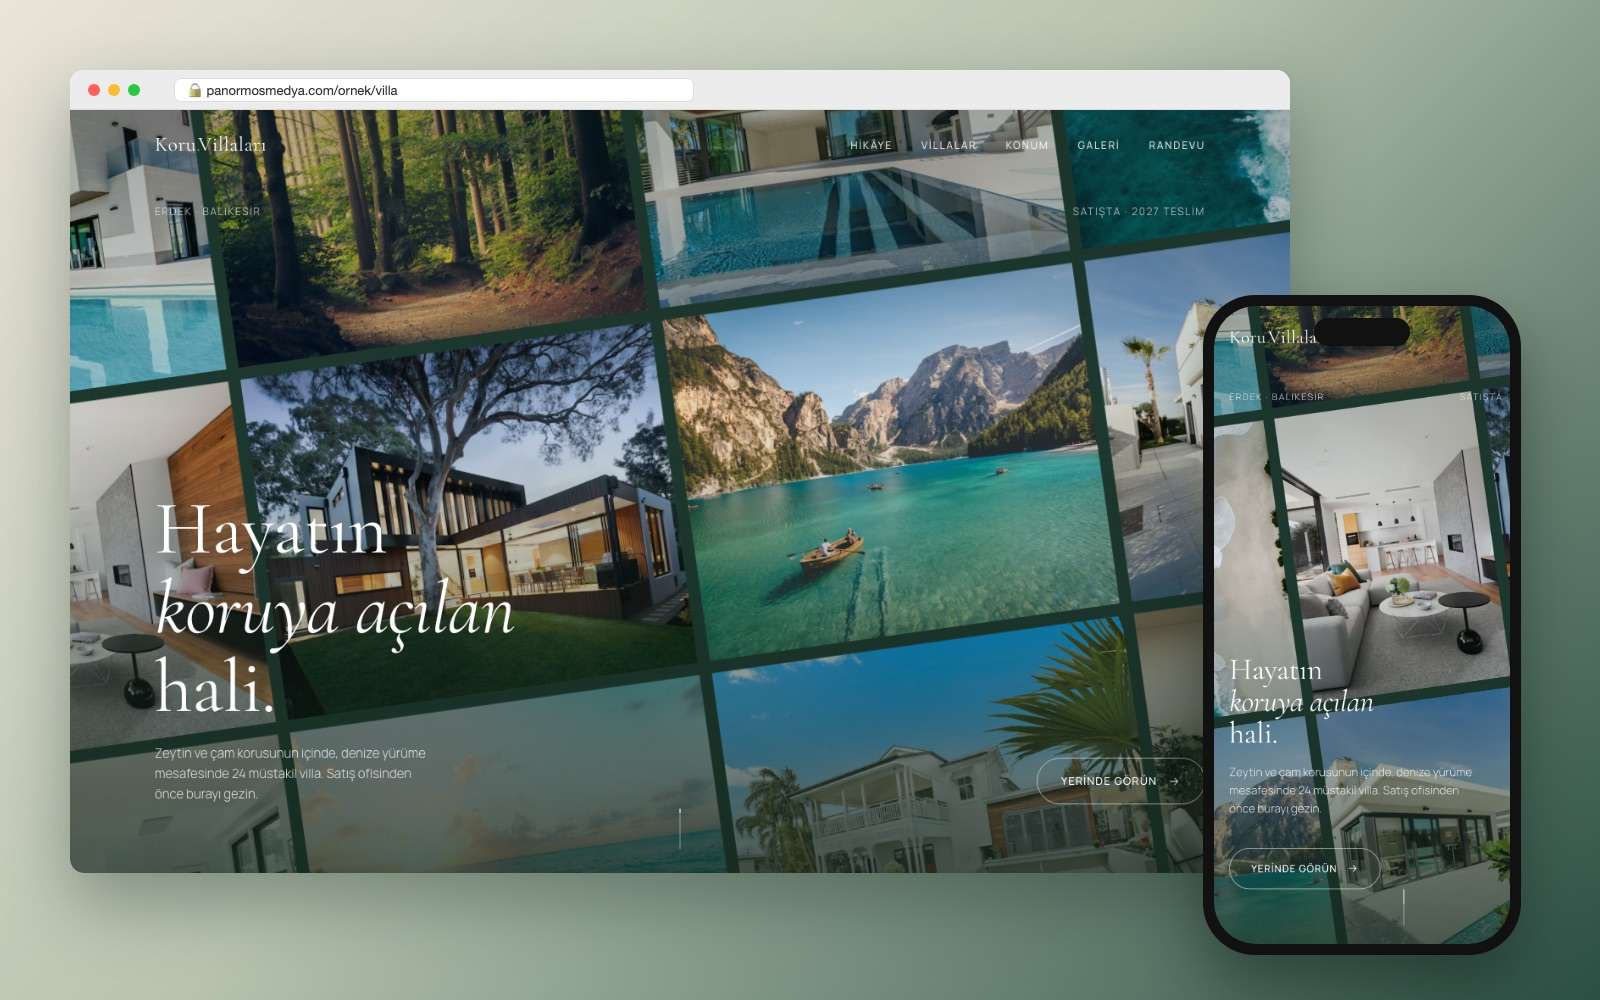
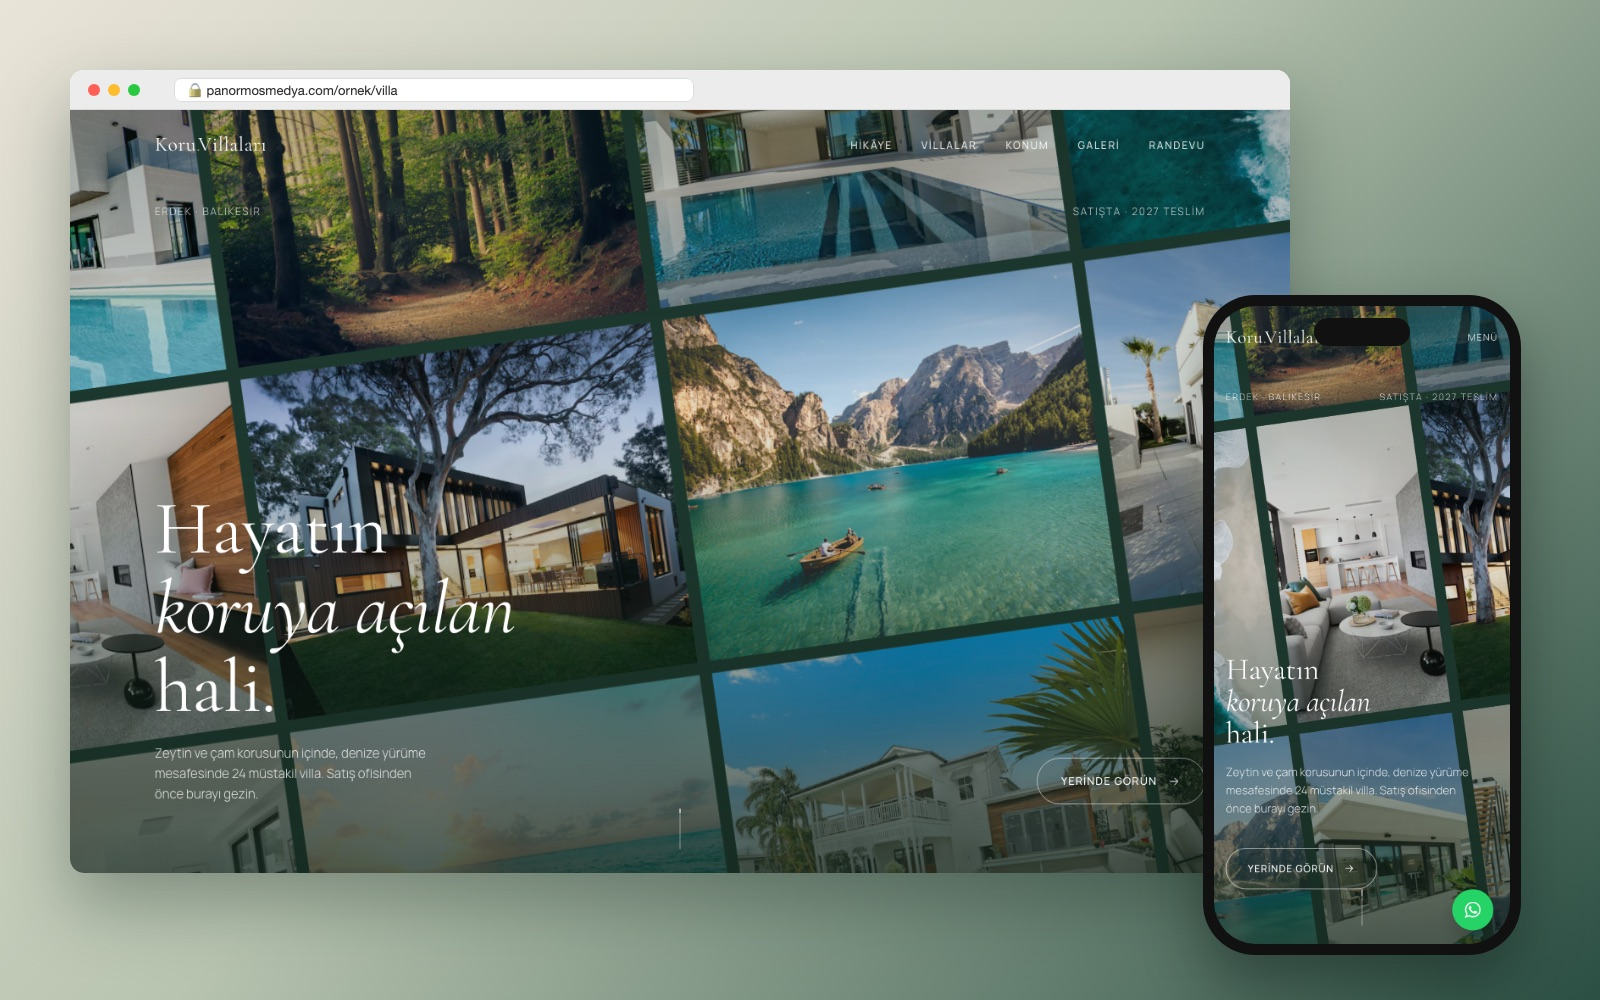
İşlerimiz: Veteriner Market örnek mağaza eklendi; veteriner sitesinde telefonda hayvan görselleri düğmenin üstüne binmiyor

Changed region(s): [[0.75, 0.279, 0.9688, 0.961]]

diff --git a/panormos-v2/src/Site.jsx b/panormos-v2/src/Site.jsx
@@ -33,9 +33,14 @@ const ISLER = [
     maddeler: ["Otomatik kira artış oranı", "Bankaların güncel kredi oranları", "Canlı altın ve döviz", "Panelden yönetilen blog"],
   },
   {
-    renk: "mavi", etiket: "İnşaat projesine özel site", baslik: "Koru Villaları", adres: "https://panormosmedya.com/ornek/villa/", adresYazi: "Örnek siteyi aç", gorsel: "/isler/villa.jpg?v=1",
+    renk: "mavi", etiket: "İnşaat projesine özel site", baslik: "Koru Villaları", adres: "https://panormosmedya.com/ornek/villa/", adresYazi: "Örnek siteyi aç", gorsel: "/isler/villa.jpg?v=2",
     metin: "Erdek'te müstakil villa projesi satan bir inşaat firması için hazırladığımız tanıtım sitesi. Alıcı satış ofisine gelmeden projeyi geziyor: korunun içindeki konum, villa tipleri, galeri ve randevu tek sayfada.",
     maddeler: ["4+1 ve 5+1 villa tipleri, metrekareleriyle", "Konum ve denize yürüme mesafesi", "Fotoğraf ve render galerisi", "Randevu formu ve WhatsApp düğmesi"],
+  },
+  {
+    renk: "sari", etiket: "Online mağaza", baslik: "Veteriner Market", adres: "https://panormosmedya.com/veteriner/", adresYazi: "Örnek mağazayı aç", gorsel: "/isler/veteriner.jpg?v=1",
+    metin: "Büyükbaş, küçükbaş ve kanatlı hayvan ürünleri satan bir veteriner market için kurduğumuz online mağaza. Ürünleri ve fiyatları firma kendi panelinden yönetiyor; müşteri sepetten sipariş veriyor, ilaç ve aşıyı WhatsApp'tan soruyor.",
+    maddeler: ["Hayvan türüne ve ürün grubuna göre arama", "Sepet, havale ve kapıda ödeme", "Firmanın kendi ürün ve sipariş paneli", "Her üründe WhatsApp'tan sorma"],
   },
   {
     renk: "zumrut", etiket: "Restoran ve barlara özel", baslik: "QR Menü", adres: "https://panormosmedya.com/m/restoran", adresYazi: "Örnek menüyü aç", gorsel: "/isler/qr-menu.jpg?v=1",

diff --git a/panormos-v2/public/veteriner/index.html b/panormos-v2/public/veteriner/index.html
@@ -167,7 +167,7 @@ footer a:hover{color:#fff}
   .wp-d span,.ust-serit .sag-yazi{display:none}
   .hero-ana{padding:26px;min-height:300px}
   .hero-ana h1{font-size:30px}
-  .hero-ana .hayvanlar{font-size:52px;letter-spacing:-4px;right:12px}
+  .hero-ana .hayvanlar{position:relative;right:auto;bottom:auto;align-self:flex-end;margin-top:16px;font-size:52px;letter-spacing:-4px}
   .hero-yan{grid-template-columns:minmax(0,1fr)}
   .urunler{grid-template-columns:repeat(2,minmax(0,1fr));gap:10px}
   .urun .gorsel{font-size:52px}
